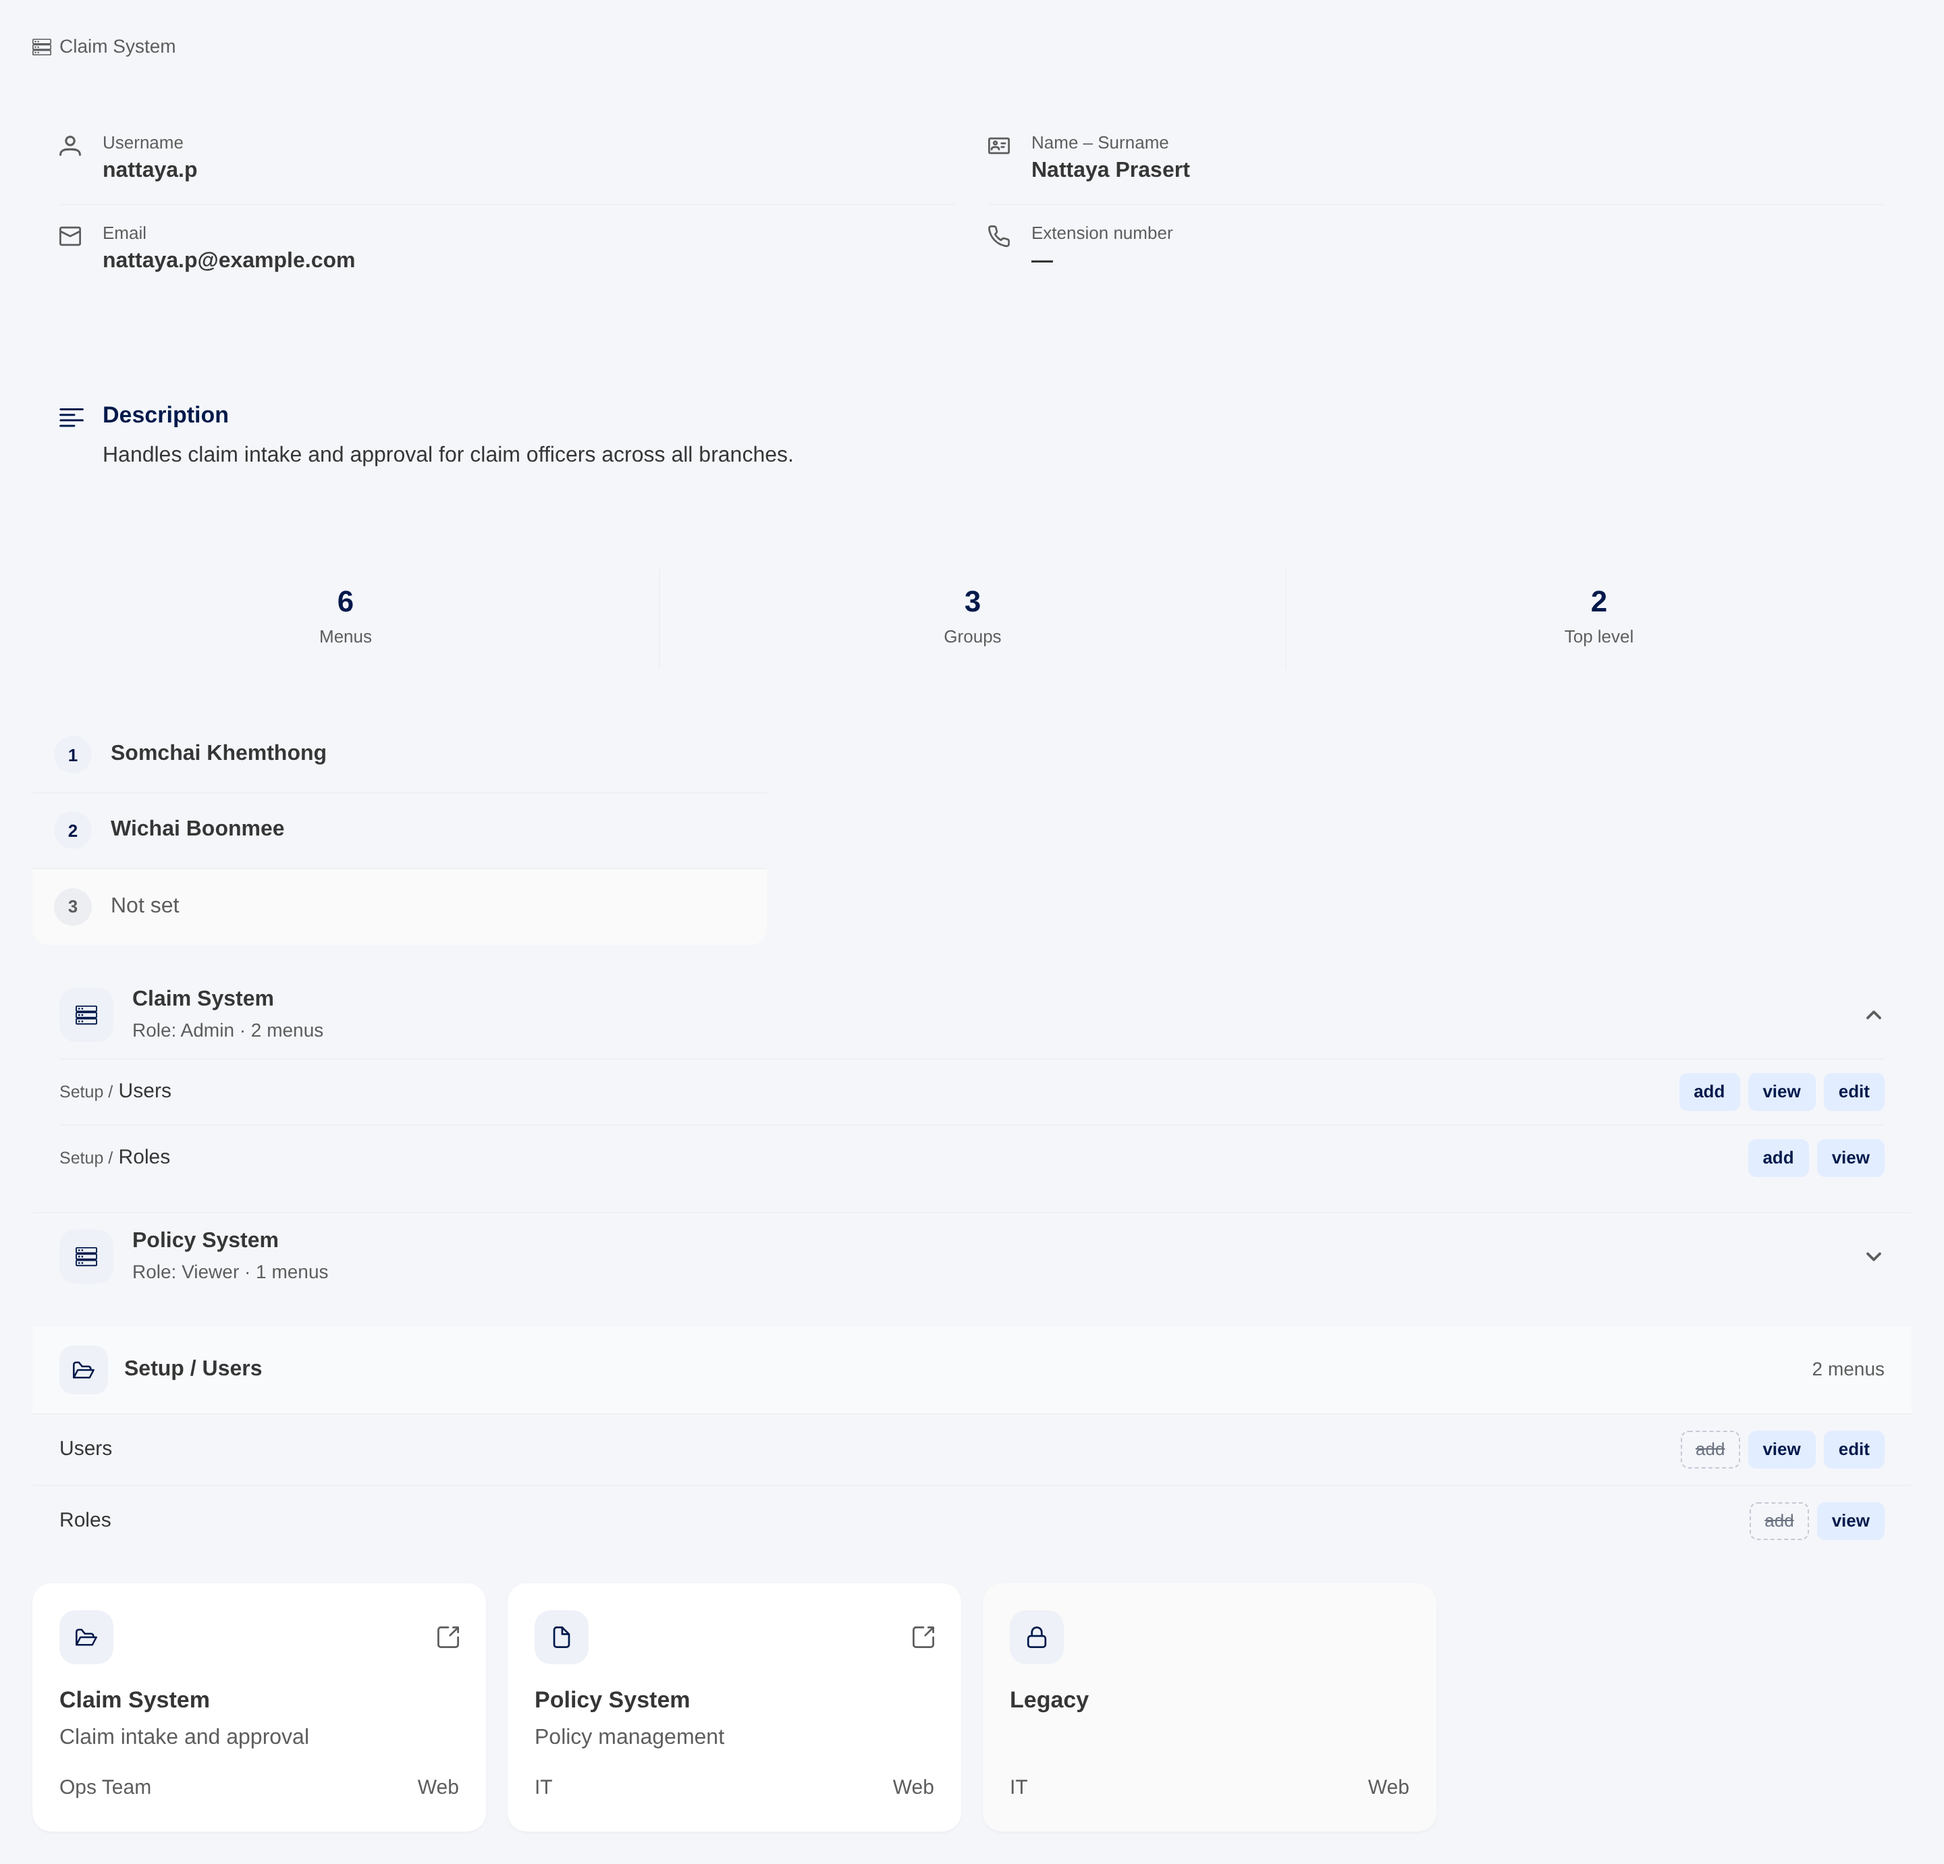
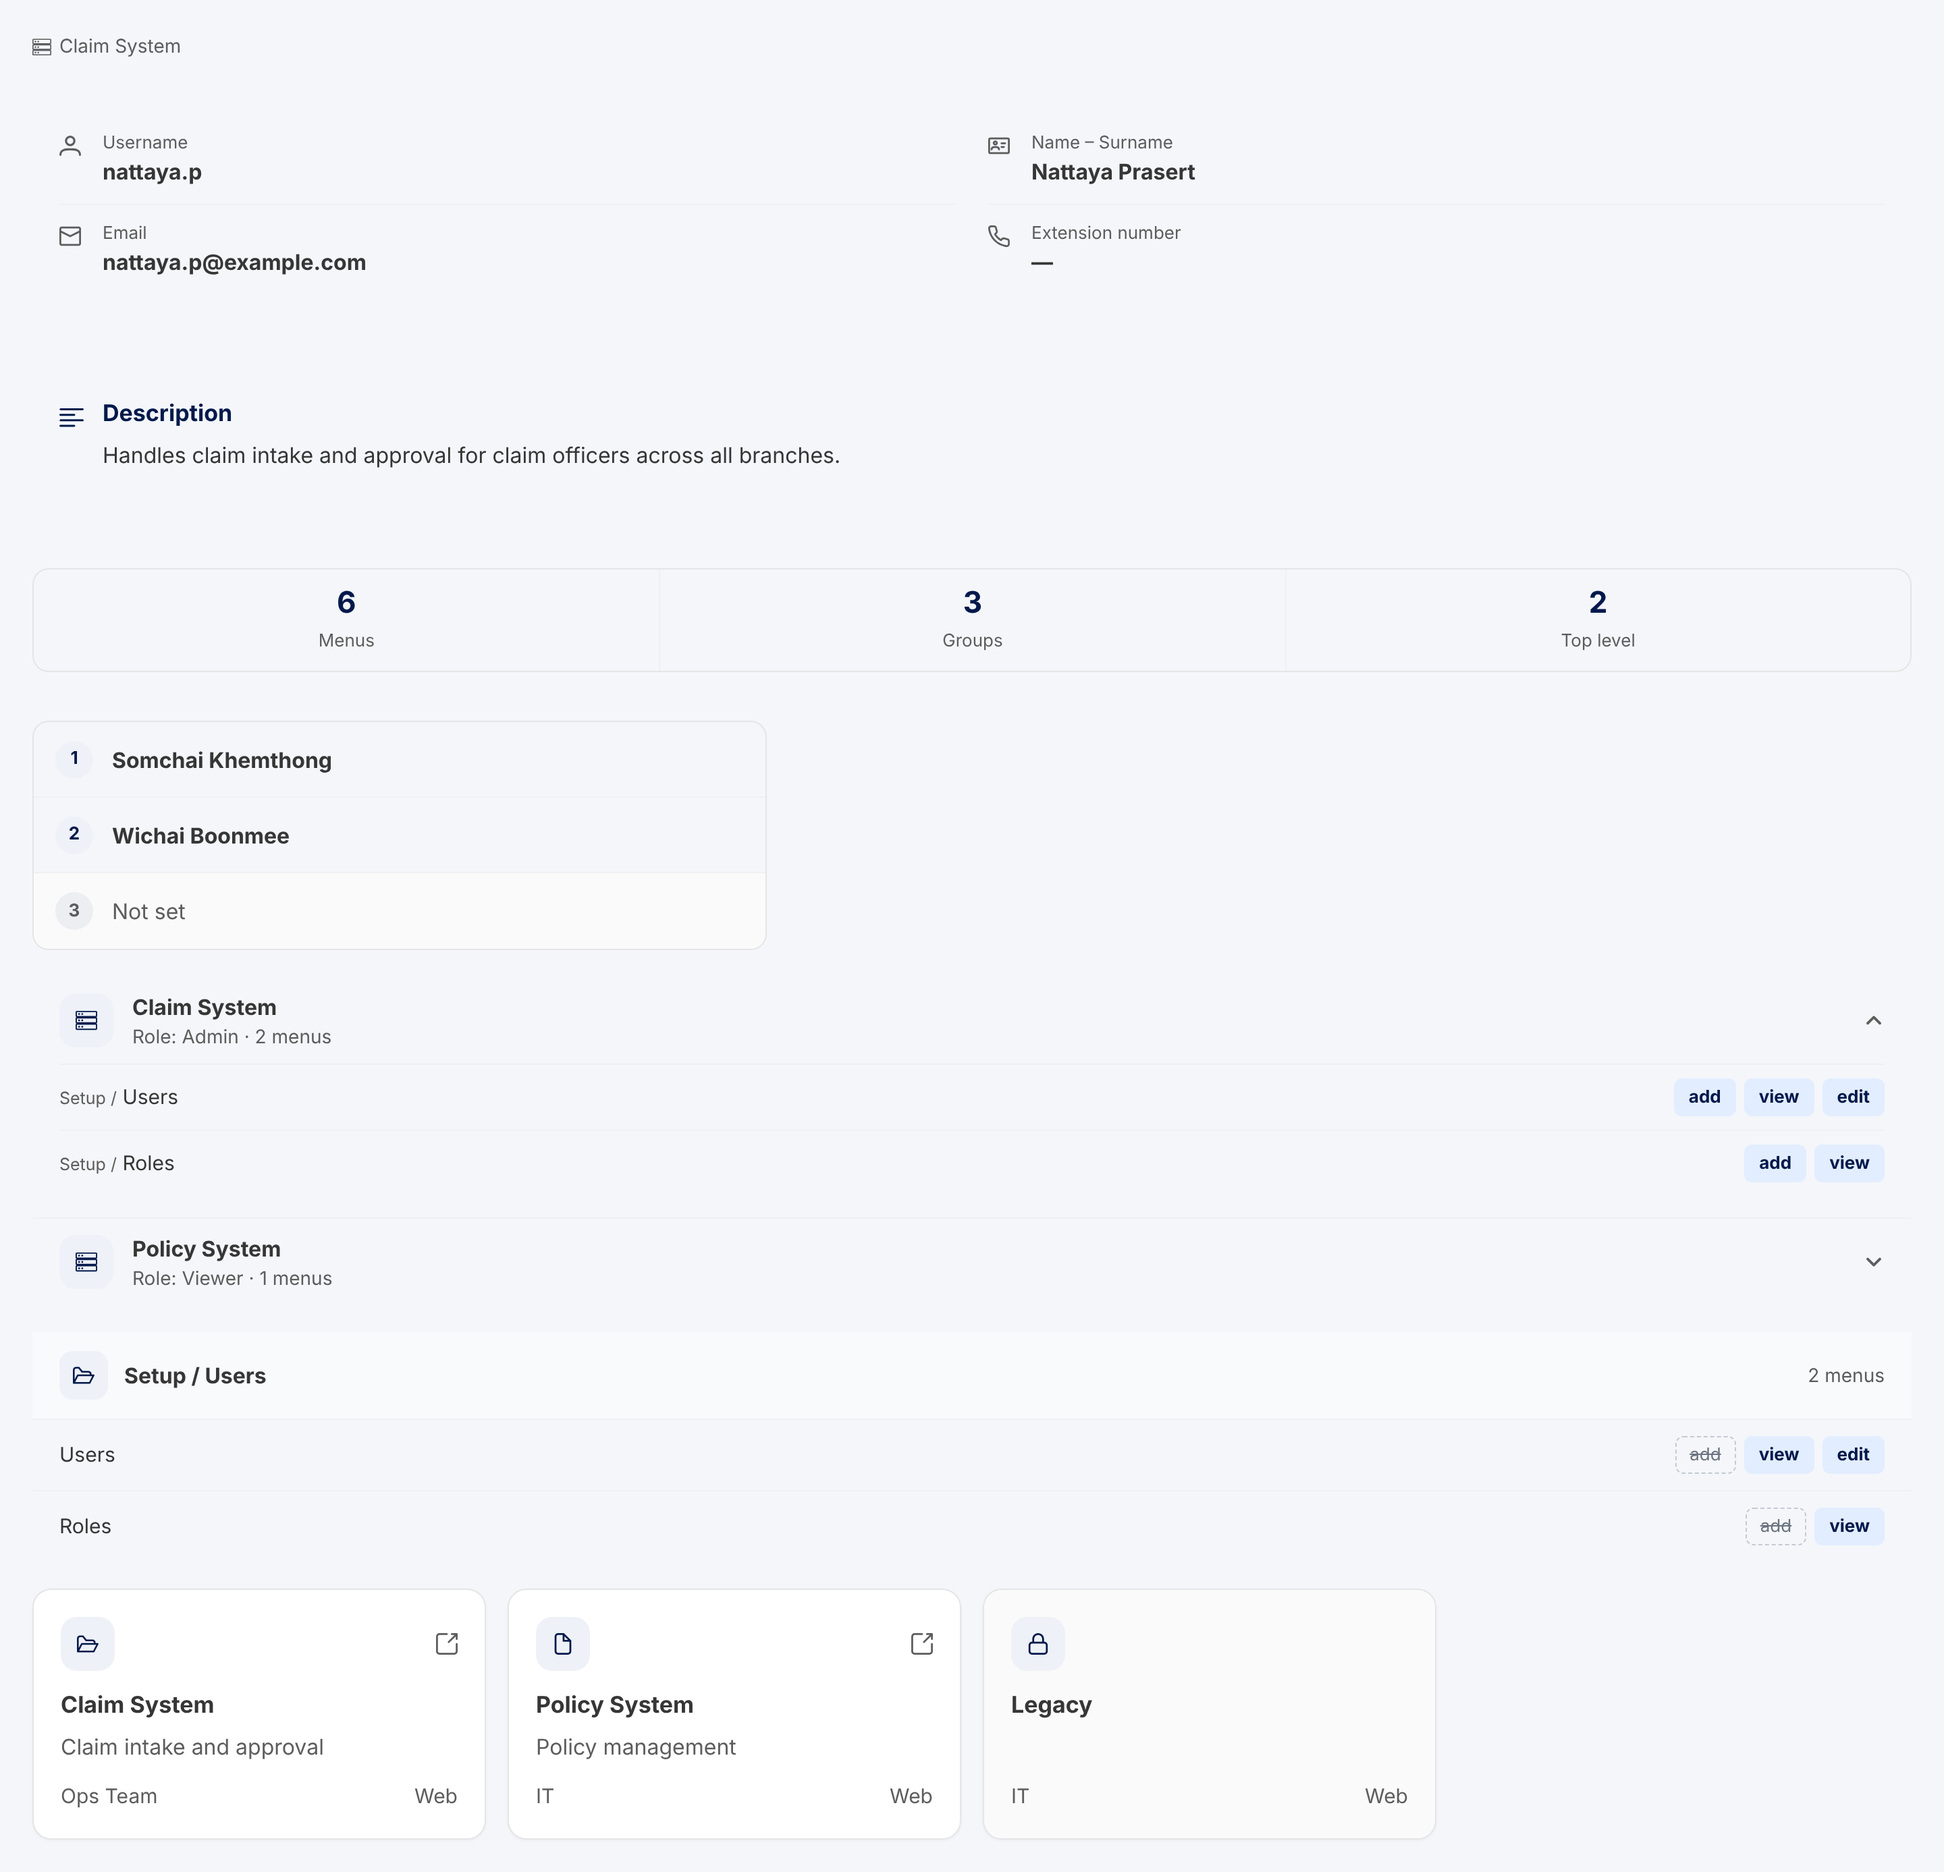
fix(UAM-FND-06): use defined --uam-line/--uam-ink tokens in detail components (#87)
* feat(UAM-FND-06): add shared detail components

u-facts, u-stats (+countMenuStats), u-approvers, u-meta-ico, u-accordion,
u-group-head, u-perm-row, u-sys-grid/u-sys-card for View/Editor/Home pages.

Claude-Session: https://claude.ai/code/session_01174fMi9Z8Lfkx3bsAuYxLK

* fix(UAM-FND-06): use defined design tokens for borders and ink

--hair and --ink are not defined in _tokens.scss, so borders of stats,
approvers and system cards disappeared. Use --uam-line / --uam-ink and add
scripts/css-tokens.test.mjs to fail on undefined CSS variables in shared/detail.

Claude-Session: https://claude.ai/code/session_01174fMi9Z8Lfkx3bsAuYxLK

* docs(UAM-FND-06): refresh screenshots after token fix

Claude-Session: https://claude.ai/code/session_01174fMi9Z8Lfkx3bsAuYxLK

---------

diff --git a/src/app/shared/detail/stats.ts b/src/app/shared/detail/stats.ts
@@ -46,7 +46,7 @@ export function countMenuStats(tree: readonly RoleMenuItem[]): MenuStats {
     :host {
       display: grid;
       grid-template-columns: repeat(3, minmax(0, 1fr));
-      border: 1px solid var(--hair);
+      border: 1px solid var(--uam-line);
       border-radius: 0.75rem;
       margin: var(--sp-3) 0 var(--sp-4);
     }

diff --git a/src/app/shared/detail/sys-card.ts b/src/app/shared/detail/sys-card.ts
@@ -49,7 +49,7 @@ export class USysGrid {}
       gap: 0.875rem;
       padding: 1.25rem;
       background: #fff;
-      border: 1px solid var(--hair);
+      border: 1px solid var(--uam-line);
       border-radius: 14px;
       box-shadow: 0 1px 2px rgba(16, 24, 40, 0.04);
       color: inherit;

diff --git a/src/app/shared/detail/approvers.ts b/src/app/shared/detail/approvers.ts
@@ -27,7 +27,7 @@ const SLOTS = [1, 2, 3] as const;
       list-style: none;
       margin: 0;
       padding: 0;
-      border: 1px solid var(--hair);
+      border: 1px solid var(--uam-line);
       border-radius: 0.75rem;
       overflow: hidden;
       max-width: 34rem;

diff --git a/src/app/shared/detail/facts.ts b/src/app/shared/detail/facts.ts
@@ -92,7 +92,7 @@ export interface FactItem {
     ul.is-prose .u-facts__v {
       font-weight: 400;
       line-height: 1.7;
-      color: var(--ink);
+      color: var(--uam-ink);
       max-width: 46rem;
     }
   `,
